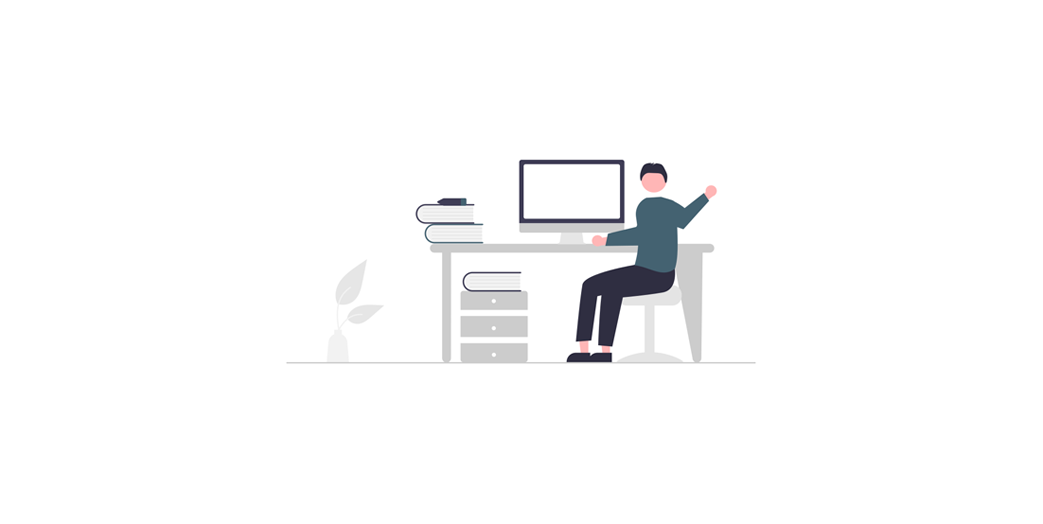
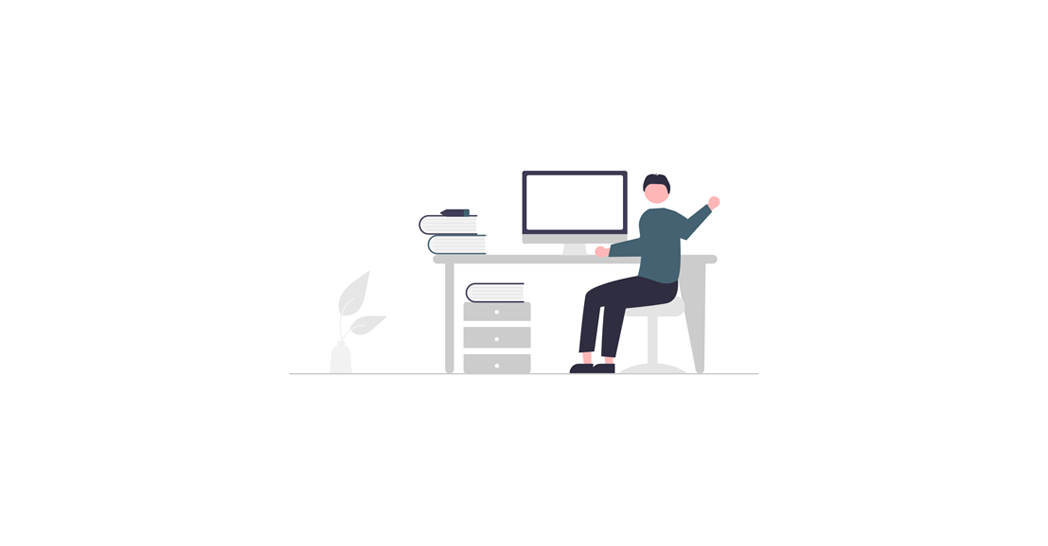
feat: Improvement in the default background size

diff --git a/dependencies/BirDayBer_setUp.py b/dependencies/BirDayBer_setUp.py
@@ -191,7 +191,7 @@ class Birdayber_setUp(BirDayBer_DB.Birdayber_database):
                 responsive_img.thumbnail(self.thumbnail_size(0.014, 0.014))
             # Default right-mid background
             elif img in ("default-right-img.png"):
-                responsive_img.thumbnail(self.thumbnail_size(0.597, 0.597))
+                responsive_img.thumbnail(self.thumbnail_size(0.596, 0.596))
             # Settings-checkbutton icons
             elif img in ("checkButton0.png", "checkButton1.png"):
                 responsive_img.thumbnail(self.thumbnail_size(0.066, 0.065))
